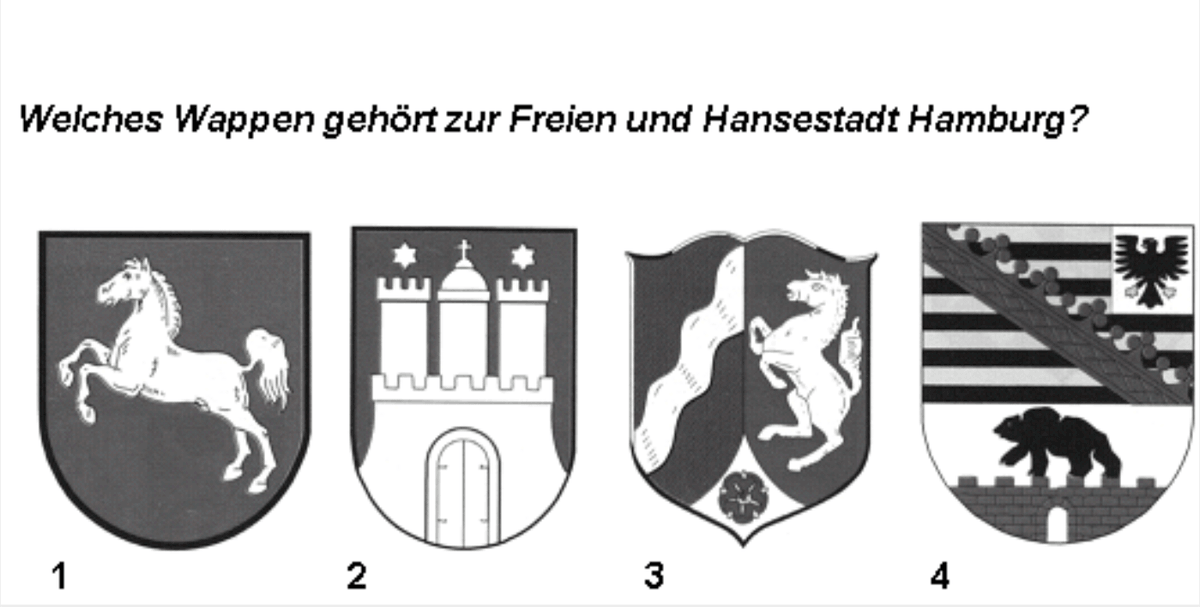
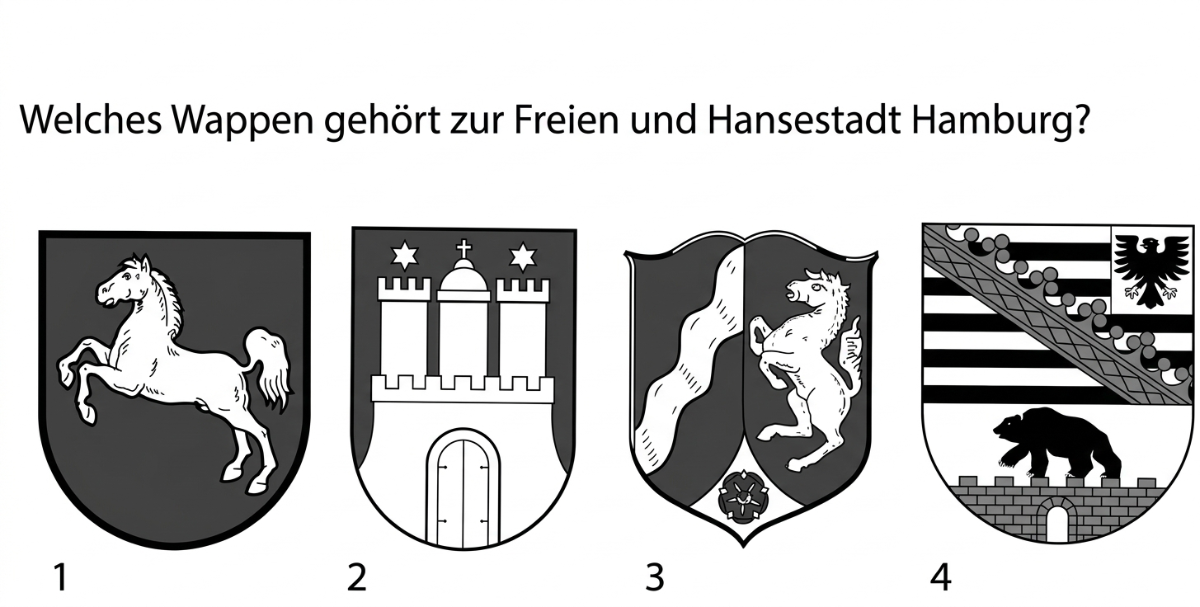
Replace Hamburg image with corrected redraw

diff --git a/README.md b/README.md
@@ -38,7 +38,7 @@ No web server is required; `data/questions.js`, `data/vocabulary.js` and `data/i
[1 lines of base64/hex data omitted]
   <https://www.bamf.de/SharedDocs/Anlagen/DE/Integration/Einbuergerung/gesamtfragenkatalog-lebenindeutschland.html?nn=284310>
 - **Answers, English translations, explanations and images**: [abdullahbutt/leben-in-deutschland-test](https://github.com/abdullahbutt/leben-in-deutschland-test), version 2026-10-28. **The German question and option wording is taken verbatim from the official BAMF PDF**; the dataset supplies the answer key, English translations, explanations and images. The translations and explanations are licensed under **CC BY-NC 4.0** (attribution, non-commercial use). `data/overrides.json` contains manual corrections for the few items where the dataset described a different paraphrase (e.g. B232, B247, HB02, SN07).
-- **Redrawn images**: `data/images/21.png`, `data/images/55.png`, `data/images/70.png`, `data/images/130.png`, `data/images/176.png`, `data/images/181.png`, `data/images/187.png`, `data/images/209.png`, `data/images/216.png`, `data/images/226.png`, `data/images/235.png`, `data/images/301-baden-wuerttemberg.png`, `data/images/301-bayern.png`, `data/images/301-berlin.png`, `data/images/301-brandenburg.png`, `data/images/301-bremen.png` and `data/images/301-hessen.png` are redrawn replacements added for this project; the remaining images come from the dataset.
+- **Redrawn images**: `data/images/21.png`, `data/images/55.png`, `data/images/70.png`, `data/images/130.png`, `data/images/176.png`, `data/images/181.png`, `data/images/187.png`, `data/images/209.png`, `data/images/216.png`, `data/images/226.png`, `data/images/235.png`, `data/images/301-baden-wuerttemberg.png`, `data/images/301-bayern.png`, `data/images/301-berlin.png`, `data/images/301-brandenburg.png`, `data/images/301-bremen.png`, `data/images/301-hamburg.png` and `data/images/301-hessen.png` are redrawn replacements added for this project; the remaining images come from the dataset.
 - **BB01 answer correction**: the official BAMF page shows the Brandenburg eagle as **Bild 1**; `data/overrides.json` pins `correct: 0`, overriding the dataset's incorrect Bild 4 mapping.
 - This is an independent learning app, not an official BAMF product. Use is intended for personal, non-commercial exam preparation.
 
